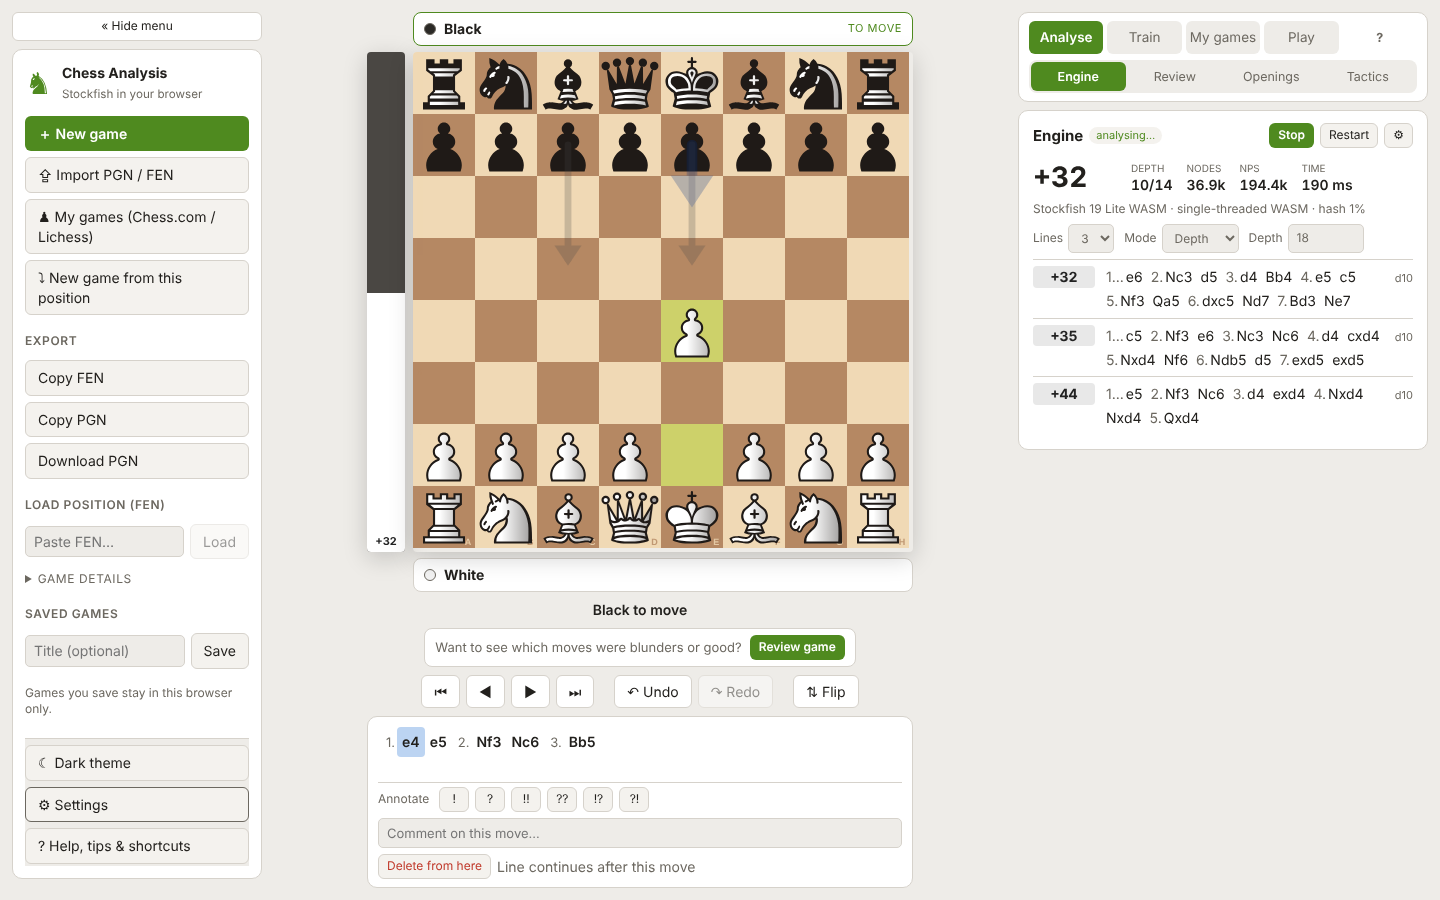
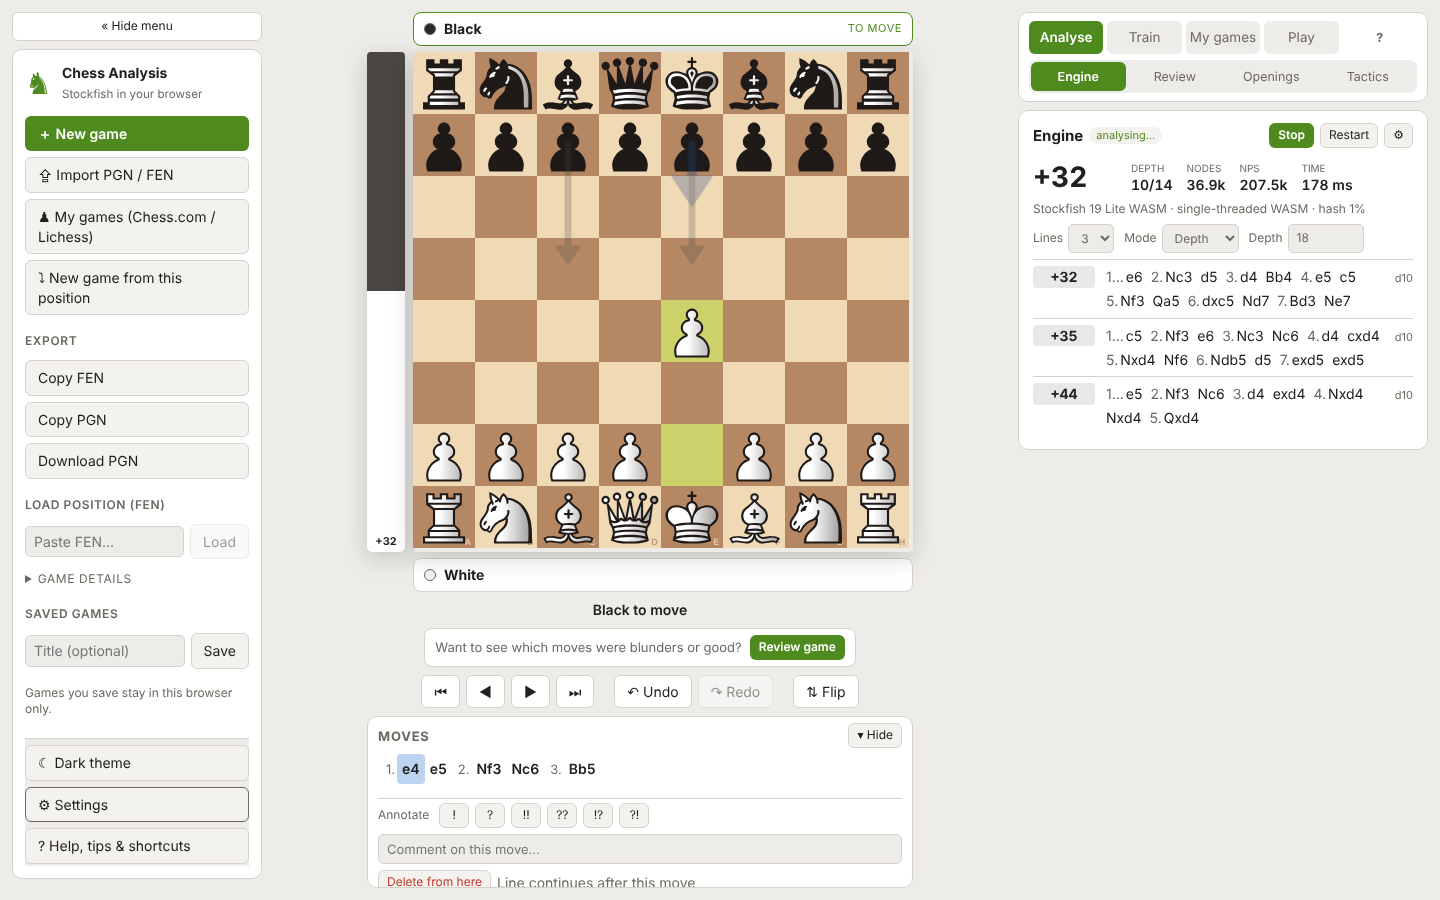
Mobile: six section buttons with sub-tabs; collapsible moves panel for a bigger board
Claude-Session: https://claude.ai/code/session_01Hgj6vNLbXkGtnkUjtVvSMf

Changed region(s): [[0.25, 0.8089, 0.5, 0.9956], [0.5938, 0.8089, 0.625, 0.84]]

diff --git a/src/App.tsx b/src/App.tsx
@@ -25,7 +25,7 @@ import { useKeyboard } from '@/hooks/useKeyboard';
 import { useGame } from '@/stores/gameStore';
 import { usePuzzle } from '@/stores/puzzleStore';
 import { useSetting } from '@/stores/settingsStore';
-import { openDialog, setMobileTab, setRightTab, toggleSidebar, useUi, type MobileTab, type RightTab } from '@/stores/uiStore';
+import { openDialog, setMobileTab, setRightTab, toggleMoves, toggleSidebar, useUi, type RightTab } from '@/stores/uiStore';
 import { useEffect, useMemo } from 'react';
 
 /**
@@ -60,19 +60,6 @@ const SECTIONS: { id: string; label: string; hint: string; tabs: { id: RightTab;
 ];
 const lastInSection = new Map<string, RightTab>();
 
-const MOBILE_TABS: { id: MobileTab; label: string }[] = [
-  { id: 'board', label: 'Board' },
-  { id: 'engine', label: 'Engine' },
-  { id: 'review', label: 'Review' },
-  { id: 'openings', label: 'Openings' },
-  { id: 'tactics', label: 'Tactics' },
-  { id: 'learn', label: 'Learn' },
-  { id: 'puzzles', label: 'Puzzles' },
-  { id: 'play', label: 'Play' },
-  { id: 'strength', label: 'Strength' },
-  { id: 'player', label: 'Player' },
-  { id: 'menu', label: 'Menu' },
-];
 
 function StatusLine() {
   const tree = useGame((s) => s.tree);
@@ -95,6 +82,7 @@ export default function App() {
   const rightTab = useUi((s) => s.rightTab);
   const mobileTab = useUi((s) => s.mobileTab);
   const collapsed = useUi((s) => s.sidebarCollapsed);
+  const movesCollapsed = useUi((s) => s.movesCollapsed);
   const puzzleActive = usePuzzle((s) => s.phase !== 'off');
   const section = SECTIONS.find((sec) => sec.tabs.some((t) => t.id === rightTab));
   if (section) lastInSection.set(section.id, rightTab);
@@ -106,7 +94,7 @@ export default function App() {
   }, [theme]);
 
   return (
-    <div className={`app mobile-${mobileTab} ${puzzleActive ? 'has-puzzle' : ''} ${collapsed ? 'side-collapsed' : ''}`}>
+    <div className={`app mobile-${mobileTab} ${puzzleActive ? 'has-puzzle' : ''} ${collapsed ? 'side-collapsed' : ''} ${movesCollapsed ? 'moves-collapsed' : ''}`}>
       <div className="col-left">
         <button className="side-toggle" data-testid="side-toggle" aria-expanded={!collapsed} aria-label={collapsed ? 'Show side menu' : 'Hide side menu'} title={collapsed ? 'Show side menu' : 'Hide side menu'} onClick={toggleSidebar}>
           {collapsed ? '»' : '« Hide menu'}
@@ -127,9 +115,11 @@ export default function App() {
         <MoveVerdict />
         <BoardControls />
         <section className="panel moves-panel" aria-label="Move list">
-          <h2 className="sr-only">Moves</h2>
-          <MoveList />
-          <MoveTools />
+          <div className="moves-head">
+            <h2>Moves</h2>
+            <button className="btn small" onClick={toggleMoves} aria-expanded={!movesCollapsed} aria-label={movesCollapsed ? 'Show moves' : 'Hide moves'} title={movesCollapsed ? 'Show moves' : 'Hide moves to get a bigger board'} data-testid="moves-toggle">{movesCollapsed ? '▴ Show' : '▾ Hide'}</button>
+          </div>
+          {!movesCollapsed && <><MoveList /><MoveTools /></>}
         </section>
       </main>
 
@@ -140,7 +130,7 @@ export default function App() {
               const active = sec.tabs.some((t) => t.id === rightTab);
               return (
                 <button key={sec.id} role="tab" aria-selected={active} className={active ? 'active' : ''} title={sec.hint}
-                  onClick={() => { const t = sec.tabs.some((x) => x.id === lastInSection.get(sec.id)) ? lastInSection.get(sec.id)! : sec.tabs[0]!.id; setRightTab(t); }}>
+                  onClick={() => { const t = sec.tabs.some((x) => x.id === lastInSection.get(sec.id)) ? lastInSection.get(sec.id)! : sec.tabs[0]!.id; setRightTab(t); setMobileTab(t); }}>
                   {sec.label}
                 </button>
               );
@@ -150,7 +140,7 @@ export default function App() {
           {section && section.tabs.length > 1 && (
             <div className="tab-row sub" role="presentation">
               {section.tabs.map((t) => (
-                <button key={t.id} role="tab" aria-selected={rightTab === t.id} className={rightTab === t.id ? 'active' : ''} onClick={() => setRightTab(t.id)}>
+                <button key={t.id} role="tab" aria-selected={rightTab === t.id} className={rightTab === t.id ? 'active' : ''} onClick={() => { setRightTab(t.id); setMobileTab(t.id); }}>
                   {t.label}
                 </button>
               ))}
@@ -172,11 +162,17 @@ export default function App() {
       </div>
 
       <nav className="mobile-tabs" aria-label="Sections">
-        {MOBILE_TABS.map((t) => (
-          <button key={t.id} className={mobileTab === t.id ? 'active' : ''} onClick={() => { setMobileTab(t.id); if (t.id === 'engine' || t.id === 'review' || t.id === 'openings' || t.id === 'tactics' || t.id === 'puzzles' || t.id === 'play' || t.id === 'player' || t.id === 'learn' || t.id === 'strength') setRightTab(t.id); }}>
-            {t.label}
-          </button>
-        ))}
+        <button className={mobileTab === 'board' ? 'active' : ''} onClick={() => setMobileTab('board')}>Board</button>
+        {SECTIONS.map((sec) => {
+          const active = sec.tabs.some((t) => t.id === mobileTab);
+          return (
+            <button key={sec.id} className={active ? 'active' : ''} onClick={() => {
+              const t = sec.tabs.some((x) => x.id === lastInSection.get(sec.id)) ? lastInSection.get(sec.id)! : sec.tabs[0]!.id;
+              setRightTab(t); setMobileTab(t);
+            }}>{sec.label}</button>
+          );
+        })}
+        <button className={mobileTab === 'menu' ? 'active' : ''} onClick={() => setMobileTab('menu')}>Menu</button>
       </nav>
 
       {dialog === 'import' && <ImportDialog />}

diff --git a/src/styles/app.css b/src/styles/app.css
@@ -517,3 +517,20 @@ fieldset.plain:disabled { opacity: 0.5; }
 @media (min-width: 901px) {
   .sidebar > .spacer + .stack { position: sticky; bottom: 0; background: var(--bg); padding: 6px 0 2px; border-top: 1px solid var(--line); }
 }
+.moves-head { display: flex; align-items: center; justify-content: space-between; margin-bottom: 2px; }
+.moves-head h2 { margin: 0; font-size: 13px; text-transform: uppercase; letter-spacing: .06em; color: var(--muted); }
+@media (min-width: 901px) {
+  .app.moves-collapsed { --board: min(calc(100vh - 250px), 700px, calc(100vw - 250px - 410px - 3 * 14px - 24px - 56px)); }
+  .app.moves-collapsed.side-collapsed { --board: min(calc(100vh - 250px), 800px, calc(100vw - 40px - 410px - 3 * 14px - 24px - 56px)); }
+  .app.moves-collapsed .col-center .moves-panel { flex: 0 0 auto; min-height: 0; max-height: none; }
+}
+@media (min-width: 901px) and (max-width: 1180px) {
+  .app.moves-collapsed { --board: min(calc(100vh - 250px), 640px, calc(100vw - 190px - 340px - 3 * 14px - 24px - 56px)); }
+}
+@media (max-width: 900px) {
+  .col-right .tabs { display: flex; }
+  .col-right .tabs .tab-row.primary { display: none; }
+  .app.mobile-board .col-right .tabs, .app.mobile-menu .col-right .tabs { display: none; }
+  .mobile-tabs button { flex: 1 1 0; min-width: 0; }
+}
+@media (max-width: 900px) { .app:not(.mobile-board) .welcome { display: none; } }

diff --git a/src/stores/uiStore.ts b/src/stores/uiStore.ts
@@ -15,6 +15,8 @@ export interface UiState {
   reanalyzeNonce: number;
   /** Desktop/tablet: left column folded to a thin rail so the board can grow. */
   sidebarCollapsed: boolean;
+  /** Moves list under the board folded to a thin bar so the board can grow. */
+  movesCollapsed: boolean;
   /** A lesson (skill id) another panel wants the Learn tab to open; consumed by the Learn tab. */
   learnRequest: string | null;
   confirm: { message: string; confirmLabel: string; onConfirm: () => void } | null;
@@ -38,6 +40,24 @@ export function toggleSidebar(): void {
   }
 }
 
+const MOVES_KEY = 'chess-analysis:moves-collapsed:v1';
+function readMovesCollapsed(): boolean {
+  try {
+    return localStorage.getItem(MOVES_KEY) === '1';
+  } catch {
+    return false;
+  }
+}
+export function toggleMoves(): void {
+  const next = !uiStore.get().movesCollapsed;
+  uiStore.set({ movesCollapsed: next });
+  try {
+    localStorage.setItem(MOVES_KEY, next ? '1' : '0');
+  } catch {
+    /* not remembered */
+  }
+}
+
 export const uiStore = createStore<UiState>({
   rightTab: 'engine',
   mobileTab: 'board',
@@ -45,6 +65,7 @@ export const uiStore = createStore<UiState>({
   tacticSquares: [],
   reanalyzeNonce: 0,
   sidebarCollapsed: readCollapsed(),
+  movesCollapsed: readMovesCollapsed(),
   learnRequest: null,
   confirm: null,
 });

diff --git a/e2e/ui_round4b.py b/e2e/ui_round4b.py
@@ -1,0 +1,42 @@
+import asyncio, os
+from playwright.async_api import async_playwright
+exec(open(os.path.join(os.path.dirname(__file__),'common.py')).read())
+async def main():
+    ok=True
+    def check(n,c):
+        nonlocal ok; print(('PASS ' if c else 'FAIL ')+n); ok = ok and bool(c)
+    async with async_playwright() as p:
+        b=await p.chromium.launch(**LAUNCH,args=['--no-sandbox'])
+        # desktop: collapsible moves panel grows the board and is remembered
+        pg=await (await b.new_context(viewport={'width':1440,'height':900})).new_page(); errs=[]
+        pg.on('pageerror',lambda e: errs.append(str(e))); pg.on('console',lambda m: errs.append(m.text) if m.type=='error' else None)
+        await pg.goto(URL); await pg.evaluate("localStorage.clear()"); await pg.reload(); await pg.wait_for_selector('cg-board')
+        w0=(await pg.locator('cg-board').bounding_box())['width']
+        await pg.click('[data-testid=moves-toggle]'); await pg.wait_for_timeout(250)
+        w1=(await pg.locator('cg-board').bounding_box())['width']
+        check(f'hiding the moves panel grows the board ({w0:.0f}->{w1:.0f})', w1>w0+30)
+        check('move list hidden', await pg.locator('[data-testid=move-list]').count()==0)
+        await pg.reload(); await pg.wait_for_selector('cg-board'); await pg.wait_for_timeout(300)
+        check('choice remembered after reload', await pg.locator('[data-testid=move-list]').count()==0)
+        await pg.click('[data-testid=moves-toggle]'); await pg.wait_for_timeout(200)
+        check('moves can be shown again', await pg.locator('[data-testid=move-list]').count()==1)
+        # mobile: six section buttons, sub-tabs inside a section
+        m=await (await b.new_context(viewport={'width':390,'height':844})).new_page()
+        m.on('console',lambda x: errs.append(x.text) if x.type=='error' else None)
+        await m.goto(URL); await m.evaluate("localStorage.clear()"); await m.reload(); await m.wait_for_selector('cg-board')
+        bar=await m.locator('.mobile-tabs button').all_inner_texts()
+        check(f'mobile bar has six buttons {bar}', bar==['Board','Analyse','Train','My games','Play','Menu'])
+        await m.locator('.mobile-tabs button',has_text='Train').click(); await m.wait_for_timeout(300)
+        check('train shows Learn/Puzzles sub-tabs', await m.get_by_role('tab',name='Puzzles',exact=True).is_visible() and await m.get_by_role('tab',name='Learn',exact=True).is_visible())
+        await m.get_by_role('tab',name='Puzzles',exact=True).click(); await m.wait_for_timeout(300)
+        check('puzzle panel visible', await m.locator('.p-puzzles').is_visible())
+        await m.locator('.mobile-tabs button',has_text='My games').click(); await m.wait_for_timeout(300)
+        check('my games shows its panel', await m.locator('.right-panels > div:visible').count()==1)
+        hs=await m.evaluate('document.documentElement.scrollWidth>innerWidth')
+        check('no horizontal scroll on mobile', not hs)
+        await m.screenshot(path=os.environ.get('SHOT','/tmp/claude-0/mobile_games.png'))
+        check('no page errors', not errs)
+        if errs: print(errs[:3])
+        await b.close()
+    raise SystemExit(0 if ok else 1)
+asyncio.run(main())

diff --git a/e2e/settings_mobile.py b/e2e/settings_mobile.py
@@ -38,8 +38,9 @@ async def main():
         print('explorer:', await pg.locator('.openings-panel .callout.warn').all_inner_texts(), '| book moves still shown:', await pg.locator('.book-move').count())
         # mobile nav
         m=await b.new_page(viewport={'width':390,'height':800}); await m.goto(URL); await m.wait_for_selector('cg-board')
-        for t in ['Engine','Review','Openings','Tactics','Menu','Board']:
-            await m.get_by_role('button',name=t,exact=True).last.click(); await m.wait_for_timeout(150)
+        bar=await m.locator('.mobile-tabs button').all_inner_texts(); print('mobile bar:',bar)
+        for t in ['Analyse','Train','My games','Play','Menu','Board']:
+            await m.locator('.mobile-tabs button',has_text=t).first.click(); await m.wait_for_timeout(150)
             vis=await m.evaluate("[...document.querySelectorAll('.col-left,.col-center,.col-right,.right-panels>div,.moves-panel')].filter(e=>e.offsetParent!==null).map(e=>e.className.split(' ')[0]).join(',')")
             hs=await m.evaluate('document.documentElement.scrollWidth>innerWidth'); print(f'mobile {t:8}',vis,'hscroll',hs)
         print('LOGS',logs); await b.close()

diff --git a/e2e/lessons.py b/e2e/lessons.py
@@ -103,7 +103,7 @@ async def main():
         # --- mobile
         m=await (await b.new_context(viewport={'width':390,'height':800})).new_page(); mlogs=[]
         m.on('pageerror',lambda e: mlogs.append(str(e)))
-        await m.goto(URL); await m.wait_for_selector('cg-board'); await m.get_by_role('button',name='Learn',exact=True).click()
+        await m.goto(URL); await m.wait_for_selector('cg-board'); await m.locator('.mobile-tabs button',has_text='Train').click(); await m.get_by_role('tab',name='Learn',exact=True).click()
         await m.wait_for_selector('[data-testid=learn-summary]'); ok(await m.locator('.skill-card').count()==len(LES), 'mobile: Learn tab lists the skills')
         ow=await m.evaluate("document.documentElement.scrollWidth<=window.innerWidth+1"); ok(ow, 'mobile: no horizontal overflow')
         await m.screenshot(path='/tmp/claude-0/learn_mobile.png')
